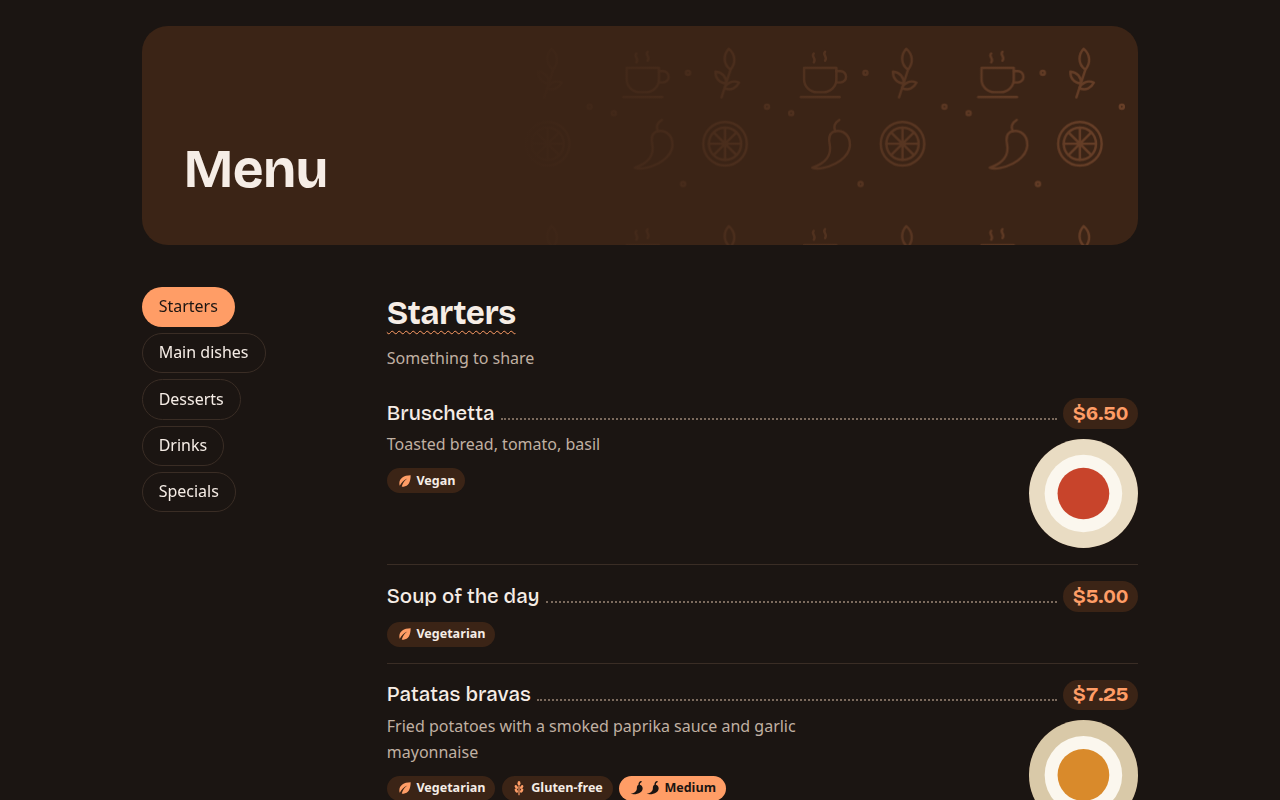
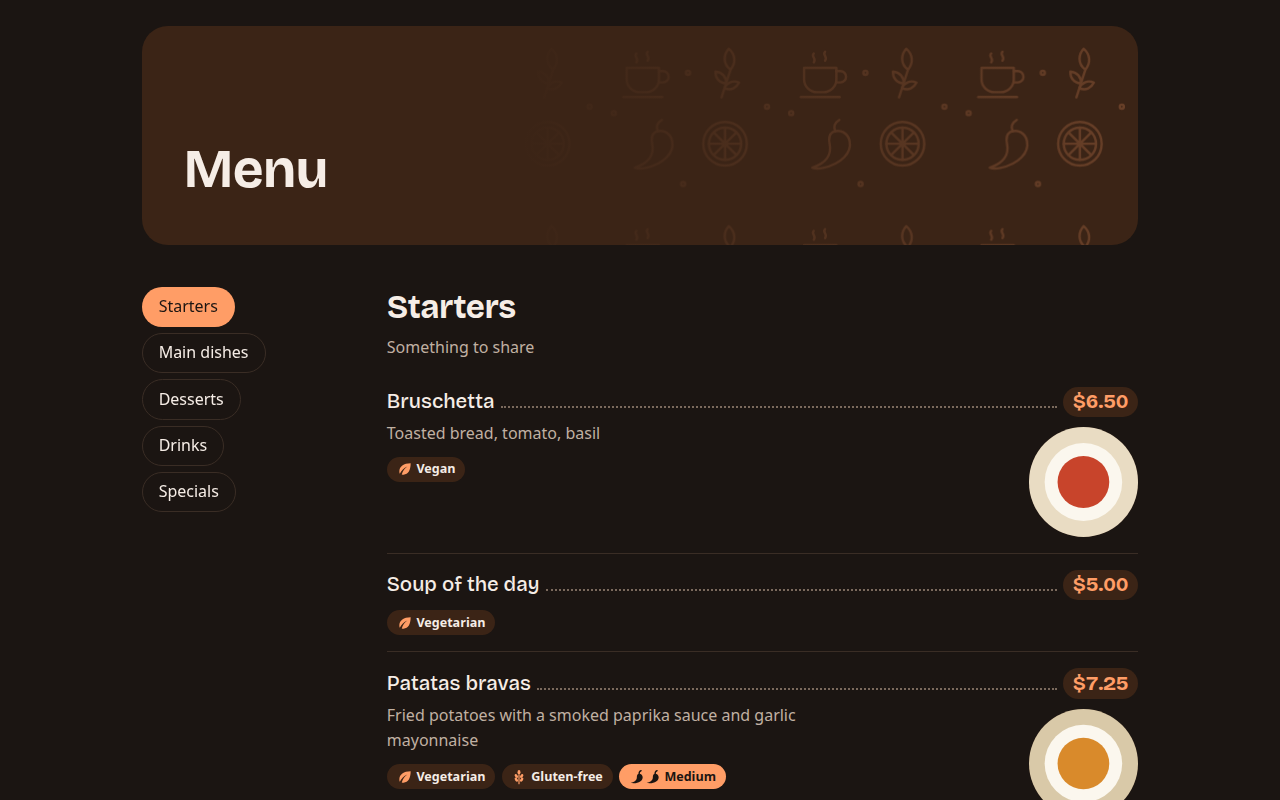
style: drop the wavy underline from section titles
It read as a spell-check mark.

diff --git a/static/css/custom.css b/static/css/custom.css
@@ -337,11 +337,8 @@ a {
     font-family: var(--font-display);
     font-size: var(--text-3);
     font-weight: var(--weight-bold);
-    line-height: var(--leading-body);
+    line-height: var(--leading-tight);
     letter-spacing: var(--tracking-display);
-    text-decoration: underline wavy var(--color-accent);
-    text-decoration-thickness: var(--space--5);
-    text-underline-offset: var(--space--2);
     overflow-wrap: anywhere;
 }
 
